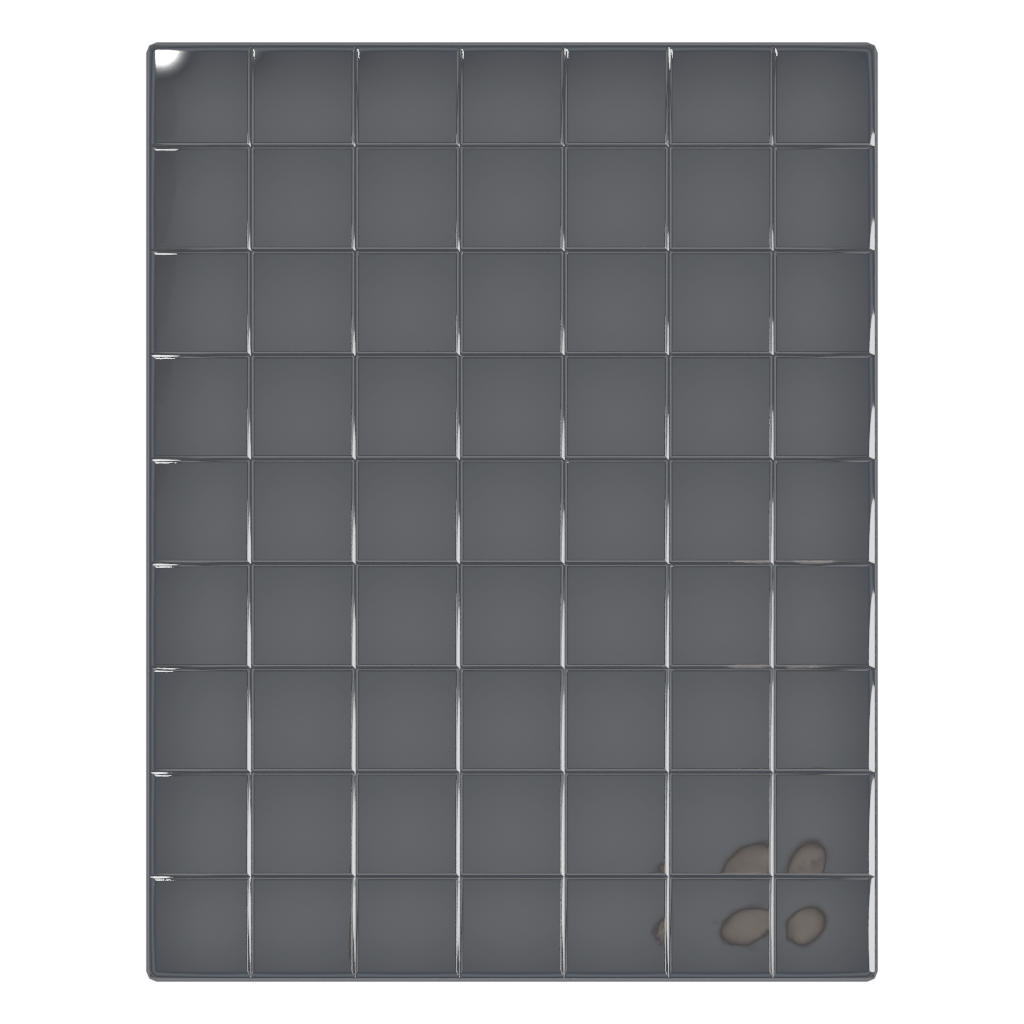
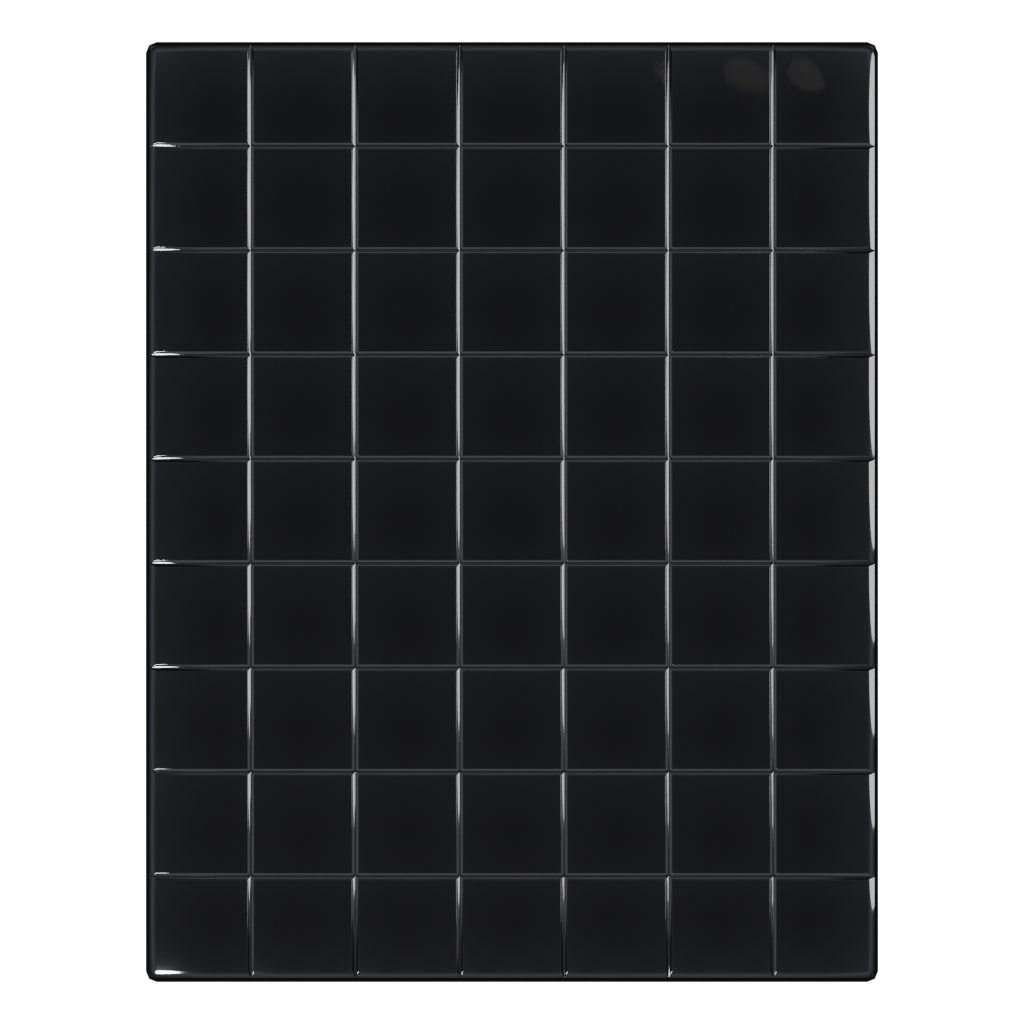
Revert the board to its pushed state
Undoes the changes made past what was asked for: the lamps mirrored
in y, film transparent-glass, the board's transmission taken to 1.0,
the world strength scaling with the lamps, and the post-render step
that rewrote the PNG's alpha from its luminance.

Back to 78f83ac: opacity 0.87, light scale 0.35, and the render that
went with it.

diff --git a/src/game/scenes/board/config.ts b/src/game/scenes/board/config.ts
@@ -390,16 +390,8 @@ export const SOURCE_TEXTURE_PX = potTextureSize(96);
  */
 export const BOARD_ART_FRAME = 9.8;
 export const BOARD_ART_TILT = 3;
-/**
- * How solid the sheet is drawn.
- *
- * ONE, deliberately. The transparency lives in the render's own alpha
- * now - see `_glass_alpha_from_light` - so the body is see-through
- * while the speculars and the scored lines stay solid. Fading the
- * sprite here multiplies both together, which is exactly what made
- * the board read as a dark film rather than as glass.
- */
-export const BOARD_ART_ALPHA = 1;
+/** How solid the sheet is. The drawn pane it replaced sat here too. */
+export const BOARD_ART_ALPHA = 0.87;
 
 /**
  * How many source tiers each building family has.

diff --git a/src/game/objects/itemSprites.ts b/src/game/objects/itemSprites.ts
@@ -135,7 +135,7 @@ export function itemSpriteKey(typeId: string, tier: number): string {
  * A version in the query string makes the URL new, so every client refetches
  * once and then caches again normally.
  */
-export const ITEM_ART_VERSION = 55;
+export const ITEM_ART_VERSION = 53;
 
 /** Where the renderer writes it, relative to `public/`. */
 export function itemSpritePath(typeId: string, tier: number): string {

diff --git a/tools/blender/render_items.py b/tools/blender/render_items.py
@@ -3146,11 +3146,7 @@ BOARD_CELL = 0.22
 # How wide the sheet's own edge is chamfered, in cells.
 BOARD_CHAMFER = 0.10
 # How far the studio's lamps are turned down for the board's own pass.
-# THE STUDIO AT FULL POWER. The board used to be dimmed to fake a
-# dark sheet; it is genuinely transparent now, so the body is dark
-# because you can see through it and the highlights stay as bright as
-# the lamps make them.
-BOARD_LIGHT_SCALE = 1.0
+BOARD_LIGHT_SCALE = 0.35
 
 
 def board_glass_material():
@@ -3185,15 +3181,10 @@ def board_glass_material():
             _shader(appended).inputs["Base Color"].default_value = (
                 *(srgb_to_linear((BOARD_GLASS >> shift) & 255)
                   for shift in (16, 8, 0)), 1.0)
-            # FULLY TRANSMISSIVE, which the saved copy is not - it
-            # sits at 0.5, half of it still diffuse. Cycles only
-            # writes real per-pixel alpha for a surface that transmits
-            # everything, and that alpha is the whole point here: it
-            # lets the body be see-through while the speculars and the
-            # scored lines stay at full strength. Fading the sprite in
-            # the game instead multiplies both together, which is why
-            # the board kept reading as a dark film.
-            _shader(appended).inputs["Transmission Weight"].default_value = 1.0
+            # Nothing else touched. The board is dimmed by turning the
+            # studio's lamps down for its own pass - see
+            # BOARD_LIGHT_SCALE - rather than by editing the saved
+            # material, so the glass really is the glass.
             return appended
     glass = tier_material(name, BOARD_GLASS, BOARD_GLASS, max_gain=1.0)
     gemstone(glass, **GLASS_PRESET)
@@ -3266,48 +3257,6 @@ def build_board_slab():
     return body
 
 
-# How see-through the unlit body is, and how hard the lit parts climb
-# back to solid.
-BOARD_BODY_ALPHA = 0.38
-BOARD_ALPHA_GAIN = 2.2
-
-
-def _glass_alpha_from_light(path: str):
-    """Writes the sheet's alpha from its own brightness.
-
-    WHY THIS IS NOT DONE IN THE GAME. Fading the sprite multiplies the
-    whole image, body and specular together, so the glass only ever
-    gets uniformly fainter - which is what kept it reading as a dark
-    film. Real glass is nearly clear where nothing is happening and
-    fully solid where a highlight is.
-
-    WHY IT IS NOT DONE IN THE RENDER EITHER. Cycles can write true
-    per-pixel alpha for a transmissive surface, but `film_transparent
-    _glass` is a no-op in 5.0.1: the board came back at mean alpha 253
-    with transmission at 1.0, and the same with the coat removed, so
-    it is not the material. Two control renders said so.
-
-    So the alpha is derived here instead - dark stays see-through,
-    bright goes solid - which is the shape the real thing would have
-    had.
-    """
-    image = bpy.data.images.load(path)
-    pixels = [0.0] * (len(image.pixels))
-    image.pixels.foreach_get(pixels)
-    for i in range(0, len(pixels), 4):
-        if pixels[i + 3] <= 0.0:
-            continue
-        luma = (0.2126 * pixels[i] + 0.7152 * pixels[i + 1]
-                + 0.0722 * pixels[i + 2])
-        lit = min(1.0, BOARD_BODY_ALPHA + luma * BOARD_ALPHA_GAIN)
-        pixels[i + 3] = pixels[i + 3] * lit
-    image.pixels.foreach_set(pixels)
-    image.filepath_raw = path
-    image.file_format = 'PNG'
-    image.save()
-    bpy.data.images.remove(image)
-
-
 def render_board():
     """The board, through its own camera and light."""
     root = os.path.dirname(os.path.dirname(os.path.dirname(os.path.abspath(__file__))))
@@ -3348,28 +3297,10 @@ def render_board():
     # how much of it there is - so the lamps keep their positions and
     # lose most of their power. A sheet this size under lamps sized
     # for a thing you could hold came back as light grey tile.
-    # MATCHED IN SCREEN TERMS, not in world coordinates.
-    #
-    # Reusing the studio's lamp POSITIONS does not reproduce their
-    # apparent direction: the item camera looks from 225 degrees at 26
-    # of elevation and this one looks straight down, so the same lamp
-    # that reads as upper-left through the first reads as lower-left
-    # through the second. The board came back with a lit edge under
-    # every cell while the objects standing on it cast down and right.
-    #
-    # A top-down camera has world -x to the left and +y up the screen,
-    # so the lamps are mirrored in y to bring them round to the upper
-    # left, which is where every drawn surface in this game is lit
-    # from.
     for name in ("KeyLight", "FillLight"):
         lamp = bpy.data.objects.get(name)
-        if lamp is None:
-            continue
-        lamp.data.energy *= BOARD_LIGHT_SCALE
-        x, y, z = lamp.location
-        lamp.location = (x, -y, z)
-        lamp.rotation_euler = (
-            -Vector(lamp.location)).to_track_quat('-Z', 'Y').to_euler()
+        if lamp is not None:
+            lamp.data.energy *= BOARD_LIGHT_SCALE
     # THE WORLD COMES DOWN WITH THEM. Lamp energy does not touch the
     # sky, and a coat mirrors the sky as readily as it mirrors a lamp -
     # dimming only the lamps bottomed the board out at #303237 however
@@ -3383,24 +3314,12 @@ def render_board():
     configure_render()
     sc = bpy.context.scene
     sc.render.resolution_x = sc.render.resolution_y = BOARD_PX
-    # TRANSPARENCY OUT OF THE RENDER, not out of the sprite's alpha.
-    #
-    # Fading the sprite in the game multiplies the whole image - body
-    # and specular together - so the glass could only ever get
-    # uniformly dimmer, which is what made it read as a dark film
-    # rather than as glass. Cycles will write real per-pixel alpha for
-    # a transmissive surface, but only with this on: without it a
-    # transmissive face renders opaque against a transparent film.
-    sc.render.film_transparent = True
-    sc.cycles.film_transparent_glass = True
-    sc.cycles.film_transparent_roughness = 0.2
 
     build_board_slab()
     out_dir = os.path.join(root, "public", "assets", "board")
     os.makedirs(out_dir, exist_ok=True)
     sc.render.filepath = os.path.join(out_dir, "board.png")
     bpy.ops.render.render(write_still=True)
-    _glass_alpha_from_light(sc.render.filepath)
     # LEFT IN THE SCENE, unlike the item families: there is one of it
     # and it is the thing most likely to want adjusting by hand.
     print("rendered board", sc.render.filepath)
